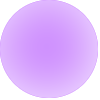
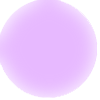
added code for different hat glows

diff --git a/src/RenderSystem.cpp b/src/RenderSystem.cpp
@@ -326,6 +326,9 @@ void RenderSystem_Update(RenderSystem* renderSystem, SDL_Renderer* renderer, uin
 			  animation->currentFrame -= 6;
 		}
 
+		//Adds a glow around glamour and regular hats
+		//helps distinguish between them
+		/*
 		if (Component_HasIndex(interactableComponent, eid)) {
 		  if (interactableComponent->types[eid] == 0) {
 		    int ht = interactableComponent->datafield[eid];
@@ -337,22 +340,22 @@ void RenderSystem_Update(RenderSystem* renderSystem, SDL_Renderer* renderer, uin
 		      case 6:
 		      case 8:
 		        glow = TextureCache_GetTexture(Constants::HatGlow_);
-			RenderSystem_Render_xywh(renderer, rect.x + (rect.w - glow->w)/2,
-						 rect.y - (rect.h - glow->h)/2, glow->w, glow->h, &clip, glow);
+			RenderSystem_Render_xywh(renderer, rect.x - (glow->w - rect.w)/2,
+						 rect.y - (glow->h - rect.h)/2, glow->w, glow->h, NULL, glow);
 		        break;
 		      case 3:
 		      case 4:
 		      case 7:
 		      case 9:
 			glow = TextureCache_GetTexture(Constants::GlamourGlow_);
-			RenderSystem_Render_xywh(renderer, rect.x + (rect.w - glow->w)/2,
-						 rect.y - (rect.h - glow->h)/2, glow->w, glow->h, &clip, glow);
+			RenderSystem_Render_xywh(renderer, rect.x - (rect.w - glow->w)/2,
+						 rect.y - (-rect.h + glow->h)/2, glow->w, glow->h, NULL, glow);
 		        break;
 		    }
 		    
 		  }
 		}
-		
+		*/
 		RenderSystem_RenderCoord(renderer, &rect, &clip, texture);
 
 		// Display interaction message

diff --git a/src/StateLoader.cpp b/src/StateLoader.cpp
@@ -351,8 +351,8 @@ bool LoadPlayStateAssets(Game* game, int chapter) {
 	TextureCache_CreateTexture(game->renderer, "assets/hud/health-bar.png", Constants::HealthBar_);
 	TextureCache_CreateTexture(game->renderer, "assets/hud/time-bar.png", Constants::TimeBar_);
 	TextureCache_CreateTexture(game->renderer, "assets/hud/coin-bar.png", Constants::CoinBar_);
-	TextureCache_CreateTexture(game->renderer, "assets/hats/glamour-hat-glow.png", Constants::GlamourGlow_);
-	TextureCache_CreateTexture(game->renderer, "assets/hats/hat-glow.png", Constants::HatGlow_);
+	SDL_SetTextureBlendMode(TextureCache_CreateTexture(game->renderer, "assets/hats/glamour-hat-glow.png", Constants::GlamourGlow_)->sdltexture, SDL_BLENDMODE_BLEND);
+	SDL_SetTextureBlendMode(TextureCache_CreateTexture(game->renderer, "assets/hats/hat-glow.png", Constants::HatGlow_)->sdltexture, SDL_BLENDMODE_BLEND);
 	
 	// Load file
 	if (!FileLoader_Load(&game->playState.chapter, chapterPath.c_str(), &game->playState.cBag, game->renderer, &game->zoneIntroState)) {
